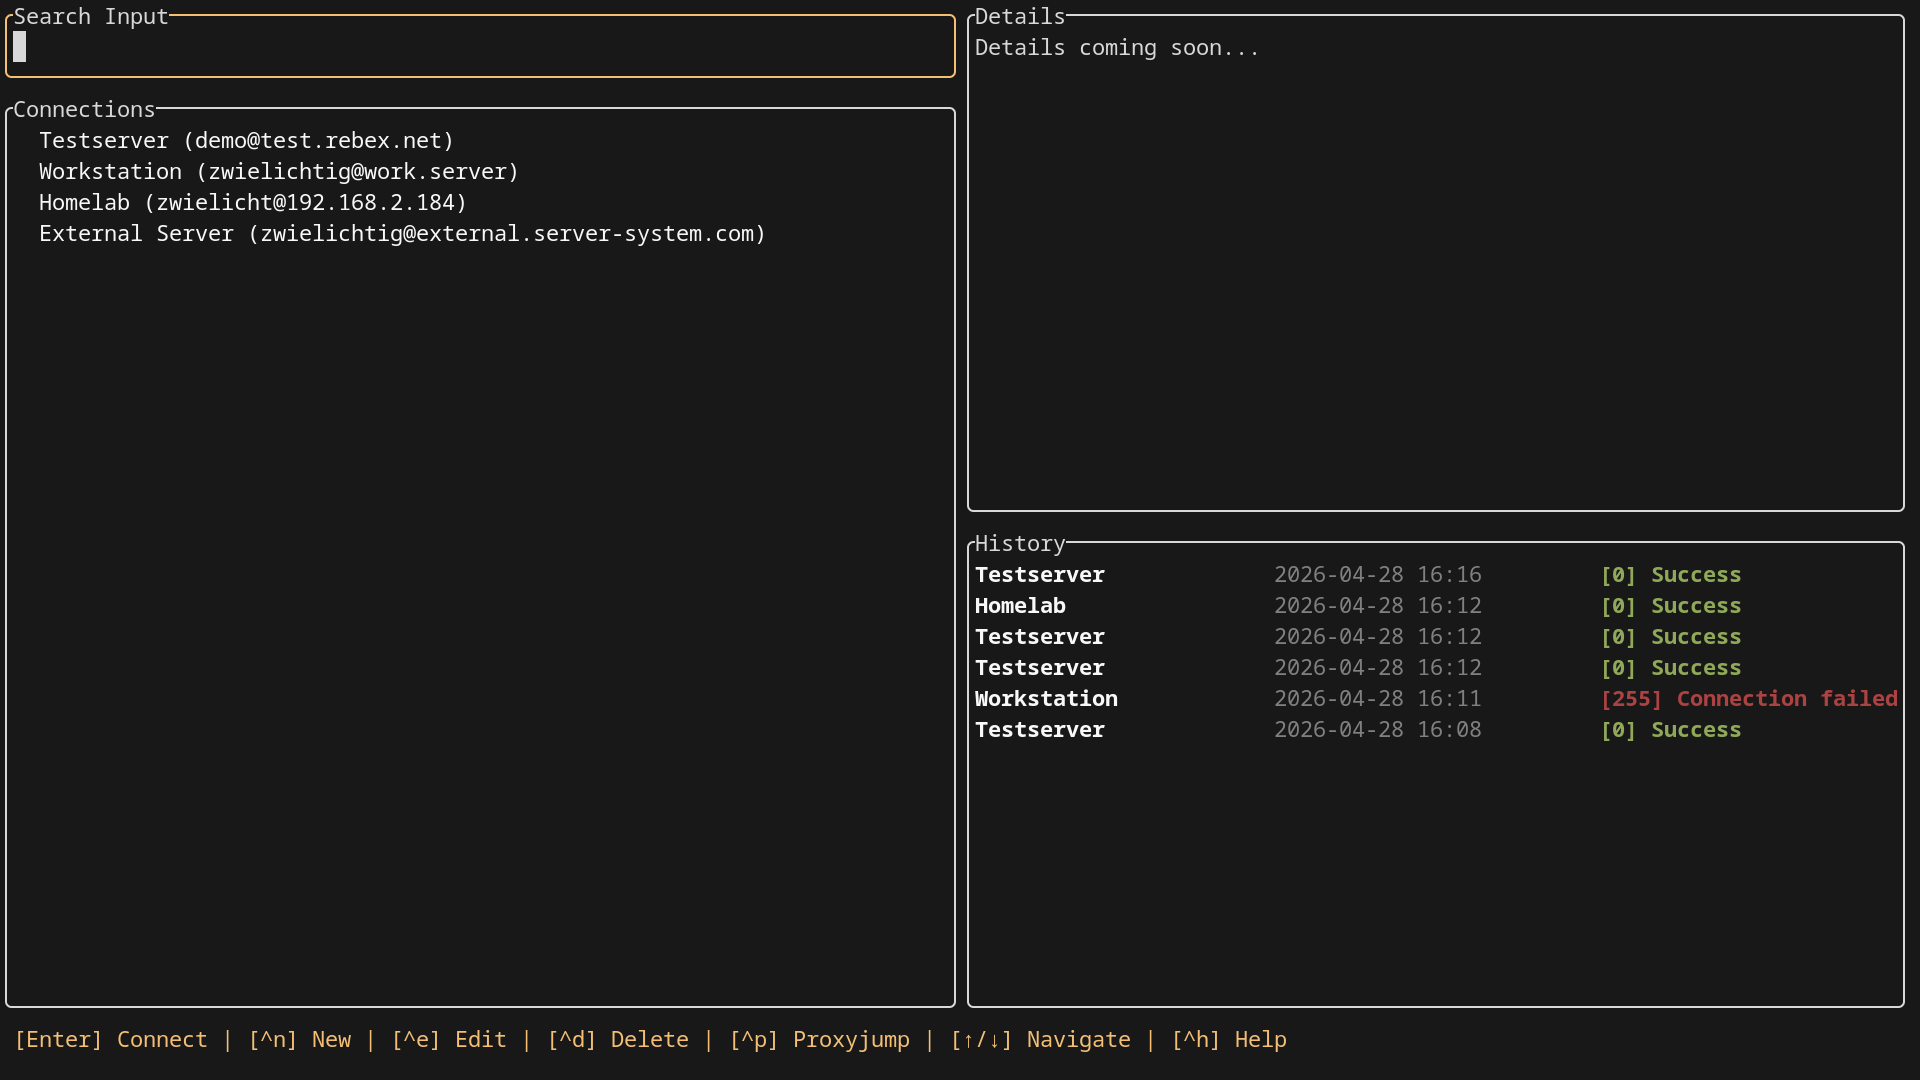
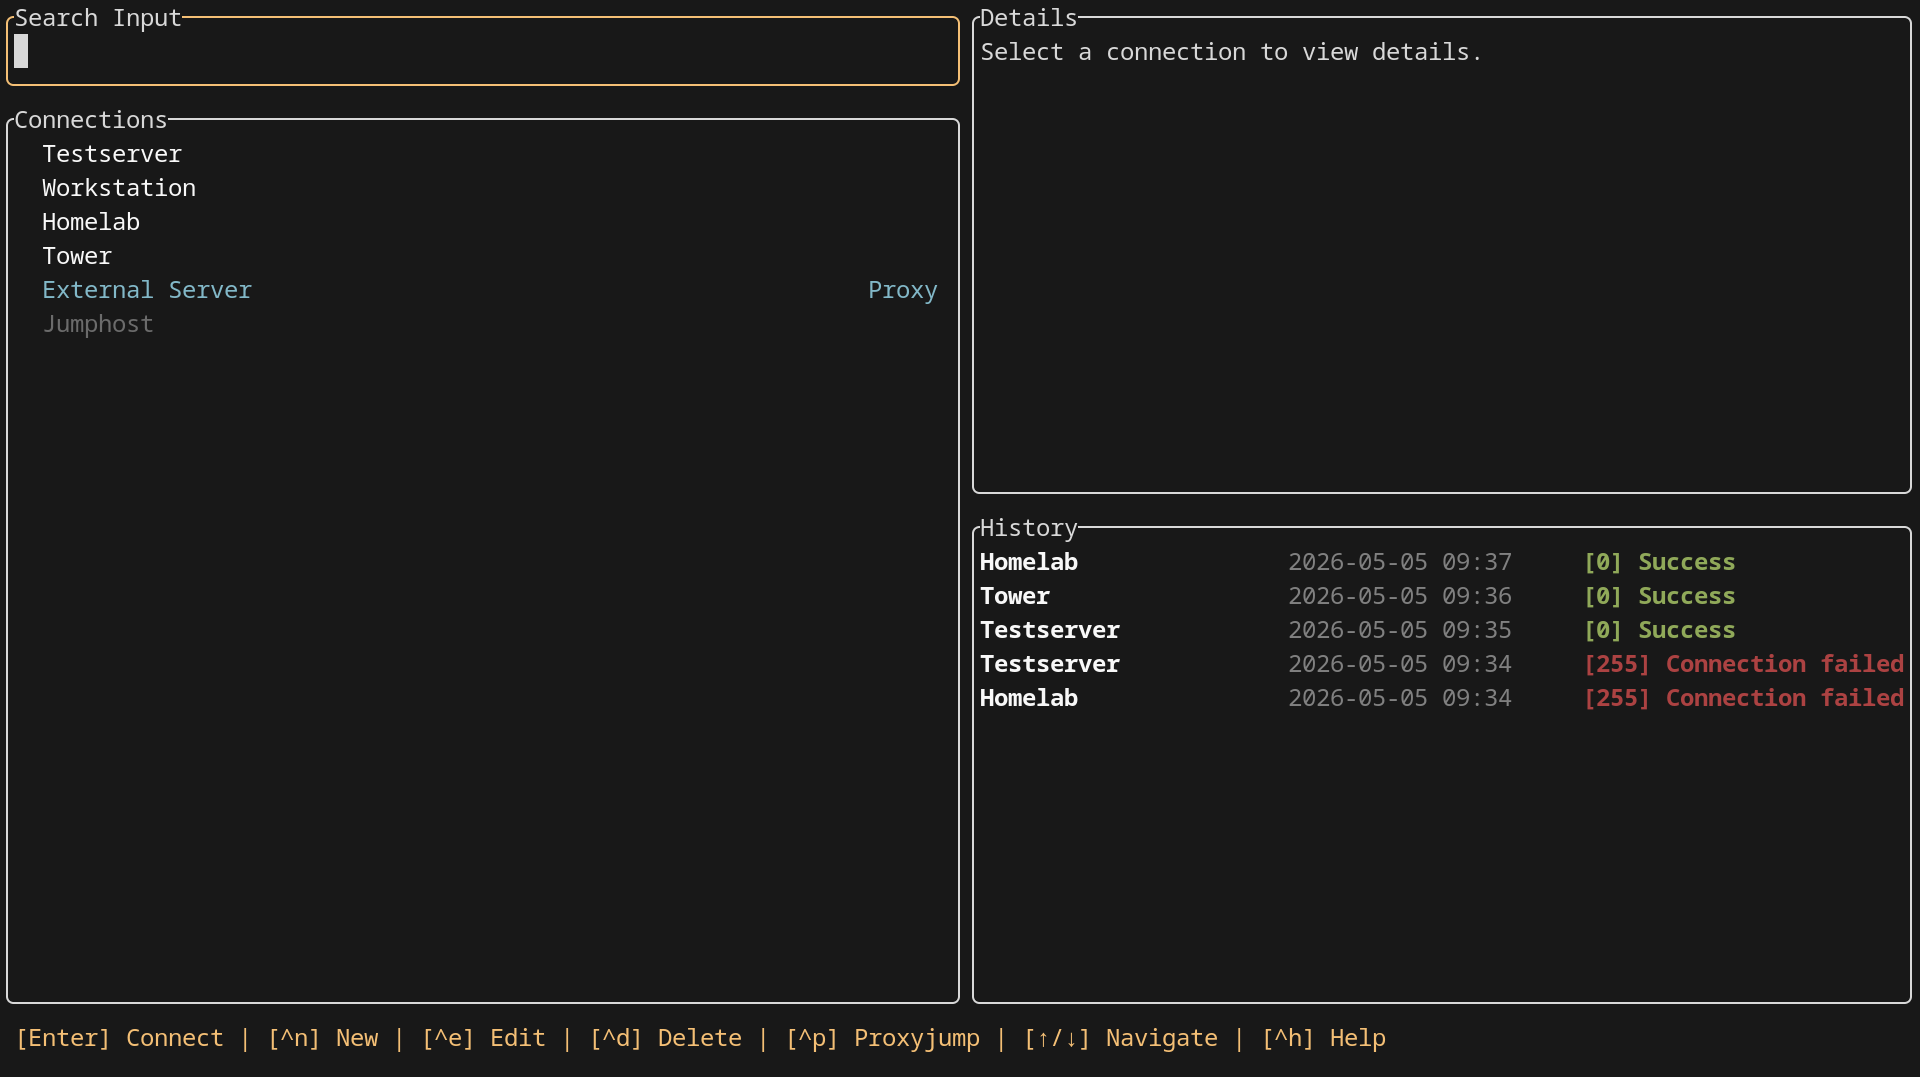
[feature] proxy jump part 2
- add Details component to main interface
- show username, hostname, port, identity file, note & proxy chain
- remove username/hostname from connection list

diff --git a/src/ui/components/connection_details.rs b/src/ui/components/connection_details.rs
@@ -1,12 +1,120 @@
 use ratatui::{
     layout::Rect,
+    style::{Color, Modifier, Style},
+    text::{Line, Span},
     widgets::Paragraph,
     Frame,
 };
+use crate::app::{App, AppFocus, ProxyInfo};
 use crate::ui::utils::default_block_builder;
 
-pub fn render_connection_details(f: &mut Frame, area: Rect, dimmed: bool) {
+pub fn render_connection_details(f: &mut Frame, app: &App, area: Rect, dimmed: bool) {
     let block = default_block_builder("Details", dimmed);
-    let p = Paragraph::new("Details coming soon...").block(block);
+
+    if app.focus != AppFocus::List
+        || app.filtered_connections.is_empty()
+        || app.selected_connection_index >= app.filtered_connections.len()
+    {
+        let p = Paragraph::new("Select a connection to view details.").block(block);
+        f.render_widget(p, area);
+        return;
+    }
+
+    let conn_idx = app.filtered_connections[app.selected_connection_index].conn_index;
+    let conn = &app.connections[conn_idx];
+
+    let mut lines = Vec::new();
+
+    // Key-value helper
+    let mut add_kv = |key: &str, val: &str| {
+        lines.push(Line::from(vec![
+            Span::styled(format!("{:width$}", key, width = 12), Style::default().fg(Color::DarkGray)),
+            Span::styled(val.to_string(), Style::default().fg(Color::White)),
+        ]));
+    };
+
+    add_kv("Username:", &conn.username);
+    add_kv("Hostname:", &conn.hostname);
+    if let Some(p) = conn.port {
+        add_kv("Port:", &p.to_string());
+    } else {
+        add_kv("Port:", "22 (default)");
+    }
+    if let Some(id_file) = &conn.identity_file {
+        add_kv("Identity:", id_file);
+    }
+    if let Some(n) = &conn.note {
+        add_kv("Note:", n);
+    }
+    lines.push(Line::from(""));
+
+    // Draw proxy diagram
+    let current_style = Style::default().fg(Color::Yellow).add_modifier(Modifier::BOLD);
+    let jump_style = Style::default().fg(Color::LightBlue);
+    let dest_style = Style::default().fg(Color::Green);
+    let arrow_style = Style::default().fg(Color::DarkGray);
+
+    match &app.selected_proxy_info {
+        ProxyInfo::None => {}
+        ProxyInfo::Destination { hops } => {
+            lines.push(Line::from(Span::styled("Proxy Chain:", Style::default().fg(Color::Gray))));
+            let mut chain = Vec::new();
+            for hop in hops {
+                chain.push(Span::styled(hop.name.clone(), jump_style));
+                chain.push(Span::styled(" -> ", arrow_style));
+            }
+            chain.push(Span::styled(conn.name.clone(), current_style));
+            lines.push(Line::from(chain));
+        }
+        ProxyInfo::JumpHost { chains } => {
+            lines.push(Line::from(Span::styled("Used as Jump Host for:", Style::default().fg(Color::Gray))));
+            for (hops, dest) in chains {
+                let mut chain = Vec::new();
+                chain.push(Span::raw("  "));
+                for hop in hops {
+                    if hop.id == conn.id {
+                        chain.push(Span::styled(hop.name.clone(), current_style));
+                    } else {
+                        chain.push(Span::styled(hop.name.clone(), jump_style));
+                    }
+                    chain.push(Span::styled(" -> ", arrow_style));
+                }
+                chain.push(Span::styled(dest.name.clone(), dest_style));
+                lines.push(Line::from(chain));
+            }
+        }
+        ProxyInfo::Both { hops, chains } => {
+            lines.push(Line::from(Span::styled("Proxy Chain (Destination):", Style::default().fg(Color::Gray))));
+            let mut chain = Vec::new();
+            for hop in hops {
+                chain.push(Span::styled(hop.name.clone(), jump_style));
+                chain.push(Span::styled(" -> ", arrow_style));
+            }
+            chain.push(Span::styled(conn.name.clone(), current_style));
+            lines.push(Line::from(chain));
+            
+            lines.push(Line::from(""));
+            
+            lines.push(Line::from(Span::styled("Used as Jump Host for:", Style::default().fg(Color::Gray))));
+            for (dest_hops, dest) in chains {
+                let mut chain = Vec::new();
+                chain.push(Span::raw("  "));
+                for hop in dest_hops {
+                    if hop.id == conn.id {
+                        chain.push(Span::styled(hop.name.clone(), current_style));
+                    } else {
+                        chain.push(Span::styled(hop.name.clone(), jump_style));
+                    }
+                    chain.push(Span::styled(" -> ", arrow_style));
+                }
+                chain.push(Span::styled(dest.name.clone(), dest_style));
+                lines.push(Line::from(chain));
+            }
+        }
+    }
+
+    let p = Paragraph::new(lines)
+        .block(block)
+        .wrap(ratatui::widgets::Wrap { trim: false }); // trim: false so indentation is kept
     f.render_widget(p, area);
 }

diff --git a/src/app.rs b/src/app.rs
@@ -7,6 +7,23 @@ use diesel::SqliteConnection;
 use fuzzy_matcher::FuzzyMatcher;
 use fuzzy_matcher::skim::SkimMatcherV2;
 
+/// Cached proxy topology for the currently selected connection.
+pub enum ProxyInfo {
+    /// The selected connection has no proxy involvement.
+    None,
+    /// The selected connection is the final SSH destination; `hops` are the
+    /// ordered jump hosts that lead to it.
+    Destination { hops: Vec<Connection> },
+    /// The selected connection is used as a jump host by other connections.
+    /// Each entry is `(ordered_hops_for_dest, destination_connection)`.
+    JumpHost { chains: Vec<(Vec<Connection>, Connection)> },
+    /// The selected connection is both a jump host and itself a proxy-destination.
+    Both {
+        hops: Vec<Connection>,
+        chains: Vec<(Vec<Connection>, Connection)>,
+    },
+}
+
 #[derive(Clone, Default)]
 pub struct FuzzyMatchResult {
     pub conn_index: usize,
@@ -43,6 +60,7 @@ pub struct App {
     pub connection_history: Vec<History>,
     pub connection_history_scroll: usize,
     pub focus: AppFocus,
+    pub selected_proxy_info: ProxyInfo,
 }
 
 impl App {
@@ -69,6 +87,7 @@ impl App {
             connection_history: Vec::new(),
             connection_history_scroll: 0,
             focus: AppFocus::Search,
+            selected_proxy_info: ProxyInfo::None,
         };
         app.refresh_connections();
         app
@@ -134,6 +153,72 @@ impl App {
     fn clamp_connection_history_scroll(&mut self) {
         let max = self.connection_history.len().saturating_sub(1);
         self.connection_history_scroll = self.connection_history_scroll.min(max);
+    }
+
+    /// Refresh the cached proxy-chain data for the currently selected connection.
+    /// Call this whenever the selection or connection data changes.
+    pub fn refresh_proxy_info(&mut self) {
+        if self.filtered_connections.is_empty()
+            || self.selected_connection_index >= self.filtered_connections.len()
+        {
+            self.selected_proxy_info = ProxyInfo::None;
+            return;
+        }
+
+        let conn_idx = self.filtered_connections[self.selected_connection_index].conn_index;
+        // Copy primitive data so we hold no reference into self.connections during the DB calls.
+        let conn_id = self.connections[conn_idx].id;
+        let has_proxy = conn_id.is_some_and(|id| self.proxy_destinations.contains(&id));
+        let is_proxy = conn_id.is_some_and(|id| self.proxy_hosts.contains(&id));
+
+        self.selected_proxy_info = match (has_proxy, is_proxy) {
+            (false, false) => ProxyInfo::None,
+            (true, false) => {
+                let hops = conn_id
+                    .and_then(|id| {
+                        crate::db::hop::ConnectionHop::get_jumps(&mut self.db, id).ok()
+                    })
+                    .unwrap_or_default();
+                ProxyInfo::Destination { hops }
+            }
+            (false, true) => {
+                let chains = self.build_proxy_chains(conn_id);
+                ProxyInfo::JumpHost { chains }
+            }
+            (true, true) => {
+                let hops = conn_id
+                    .and_then(|id| {
+                        crate::db::hop::ConnectionHop::get_jumps(&mut self.db, id).ok()
+                    })
+                    .unwrap_or_default();
+                let chains = self.build_proxy_chains(conn_id);
+                ProxyInfo::Both { hops, chains }
+            }
+        };
+    }
+
+    /// For a connection that acts as a jump host, collect every destination
+    /// that routes through it, together with that destination's ordered hop list.
+    fn build_proxy_chains(
+        &mut self,
+        conn_id: Option<i32>,
+    ) -> Vec<(Vec<Connection>, Connection)> {
+        let Some(id) = conn_id else {
+            return Vec::new();
+        };
+        let dest_conns =
+            crate::db::hop::ConnectionHop::get_destinations_for_hop(&mut self.db, id)
+                .unwrap_or_default();
+        let mut chains = Vec::new();
+        for dest in dest_conns {
+            if let Some(dest_id) = dest.id {
+                let hops =
+                    crate::db::hop::ConnectionHop::get_jumps(&mut self.db, dest_id)
+                        .unwrap_or_default();
+                chains.push((hops, dest));
+            }
+        }
+        chains
     }
 
     pub fn refresh_connections(&mut self) {
@@ -267,6 +352,7 @@ impl App {
         } else if self.filtered_connections.is_empty() {
             self.selected_connection_index = 0;
         }
+        self.refresh_proxy_info();
     }
 
     pub fn submit_connection(&mut self) {

diff --git a/src/db/hop.rs b/src/db/hop.rs
@@ -64,6 +64,25 @@ impl ConnectionHop {
         Ok(ids.into_iter().collect())
     }
 
+    /// Returns every connection that lists `hop_id` as one of its jump targets.
+    /// Used to build the proxy-chain diagram when viewing a jump-host connection.
+    pub fn get_destinations_for_hop(
+        db_connection: &mut SqliteConnection,
+        hop_id: i32,
+    ) -> QueryResult<Vec<Connection>> {
+        use super::schema::{connection_hops, connections};
+
+        connection_hops::table
+            .filter(connection_hops::target_connection_id.eq(hop_id))
+            .inner_join(
+                connections::table
+                    .on(connection_hops::source_connection_id.nullable().eq(connections::id)),
+            )
+            .select(Connection::as_select())
+            .distinct()
+            .load::<Connection>(db_connection)
+    }
+
     pub fn get_all_proxy_destination_ids(
         db_connection: &mut SqliteConnection,
     ) -> QueryResult<std::collections::HashSet<i32>> {

diff --git a/src/input/main_handler.rs b/src/input/main_handler.rs
@@ -67,6 +67,7 @@ pub fn handle_main_input(app: &mut App, key: KeyEvent) -> bool {
                 if app.selected_connection_index > 0 {
                     app.selected_connection_index -= 1;
                     app.refresh_connection_history();
+                    app.refresh_proxy_info();
                 }
             }
         }
@@ -75,6 +76,7 @@ pub fn handle_main_input(app: &mut App, key: KeyEvent) -> bool {
                 if app.selected_connection_index + 1 < app.filtered_connections.len() {
                     app.selected_connection_index += 1;
                     app.refresh_connection_history();
+                    app.refresh_proxy_info();
                 }
             }
         }

diff --git a/src/ui/components/connection_list.rs b/src/ui/components/connection_list.rs
@@ -74,11 +74,6 @@ pub fn render_connection_list(f: &mut Frame, app: &App, area: Rect, dimmed: bool
                 };
 
             push_marked_string(&mut spans, &c.name, &name_idx);
-            spans.push(Span::styled(" (", base_style));
-            push_marked_string(&mut spans, &c.username, &user_idx);
-            spans.push(Span::styled("@", base_style));
-            push_marked_string(&mut spans, &c.hostname, &host_idx);
-            spans.push(Span::styled(")", base_style));
 
             let mut line = Line::from(spans);
 

diff --git a/src/ui/components/history.rs b/src/ui/components/history.rs
@@ -173,14 +173,7 @@ fn render_connection_history(
     inner_width: usize,
     dimmed: bool,
 ) {
-    let title = if !app.filtered_connections.is_empty()
-        && app.selected_connection_index < app.filtered_connections.len()
-    {
-        let idx = app.filtered_connections[app.selected_connection_index].conn_index;
-        format!("History – {}", app.connections[idx].name)
-    } else {
-        "History".to_string()
-    };
+    let title = "History".to_string();
 
     let block = default_block_builder(&title, dimmed);
 

diff --git a/src/ui/layout.rs b/src/ui/layout.rs
@@ -41,7 +41,7 @@ pub fn draw(f: &mut Frame, app: &App) {
 
     render_search_input(f, app, left_chunks[0], dimmed, style);
     render_connection_list(f, app, left_chunks[1], dimmed, style);
-    render_connection_details(f, right_chunks[0], dimmed);
+    render_connection_details(f, app, right_chunks[0], dimmed);
     render_history(f, app, right_chunks[1], dimmed);
 
     let shortcuts = " [Enter] Connect | [^n] New | [^e] Edit | [^d] Delete | [^p] Proxyjump | [↑/↓] Navigate | [^h] Help";

diff --git a/ROADMAP.md b/ROADMAP.md
@@ -3,7 +3,7 @@
 > [!TIP]
 > This roadmap outlines planned features and is subject to change and expansion.
 
-## 📊 ~~History Functionality~~ $${\color{green}[implemented]}$$
+## 📊 ~~History Functionality~~ ✅
 
 **Gain deeper visibility into connection activity and usages**
 
@@ -21,11 +21,11 @@
 
 ---
 
-## 🔗 Proxy-Jump Support
+## 🔗 ~~Proxy-Jump Support~~ ✅
 
 **Advanced SSH routing capabilities**
 
-- ~~proxy Jump SSH connections~~ $${\color{green}[implemented]}$$
+- proxy Jump SSH connections
 - visual chain representation for proxy jumps (ASCII)
 
 ---
